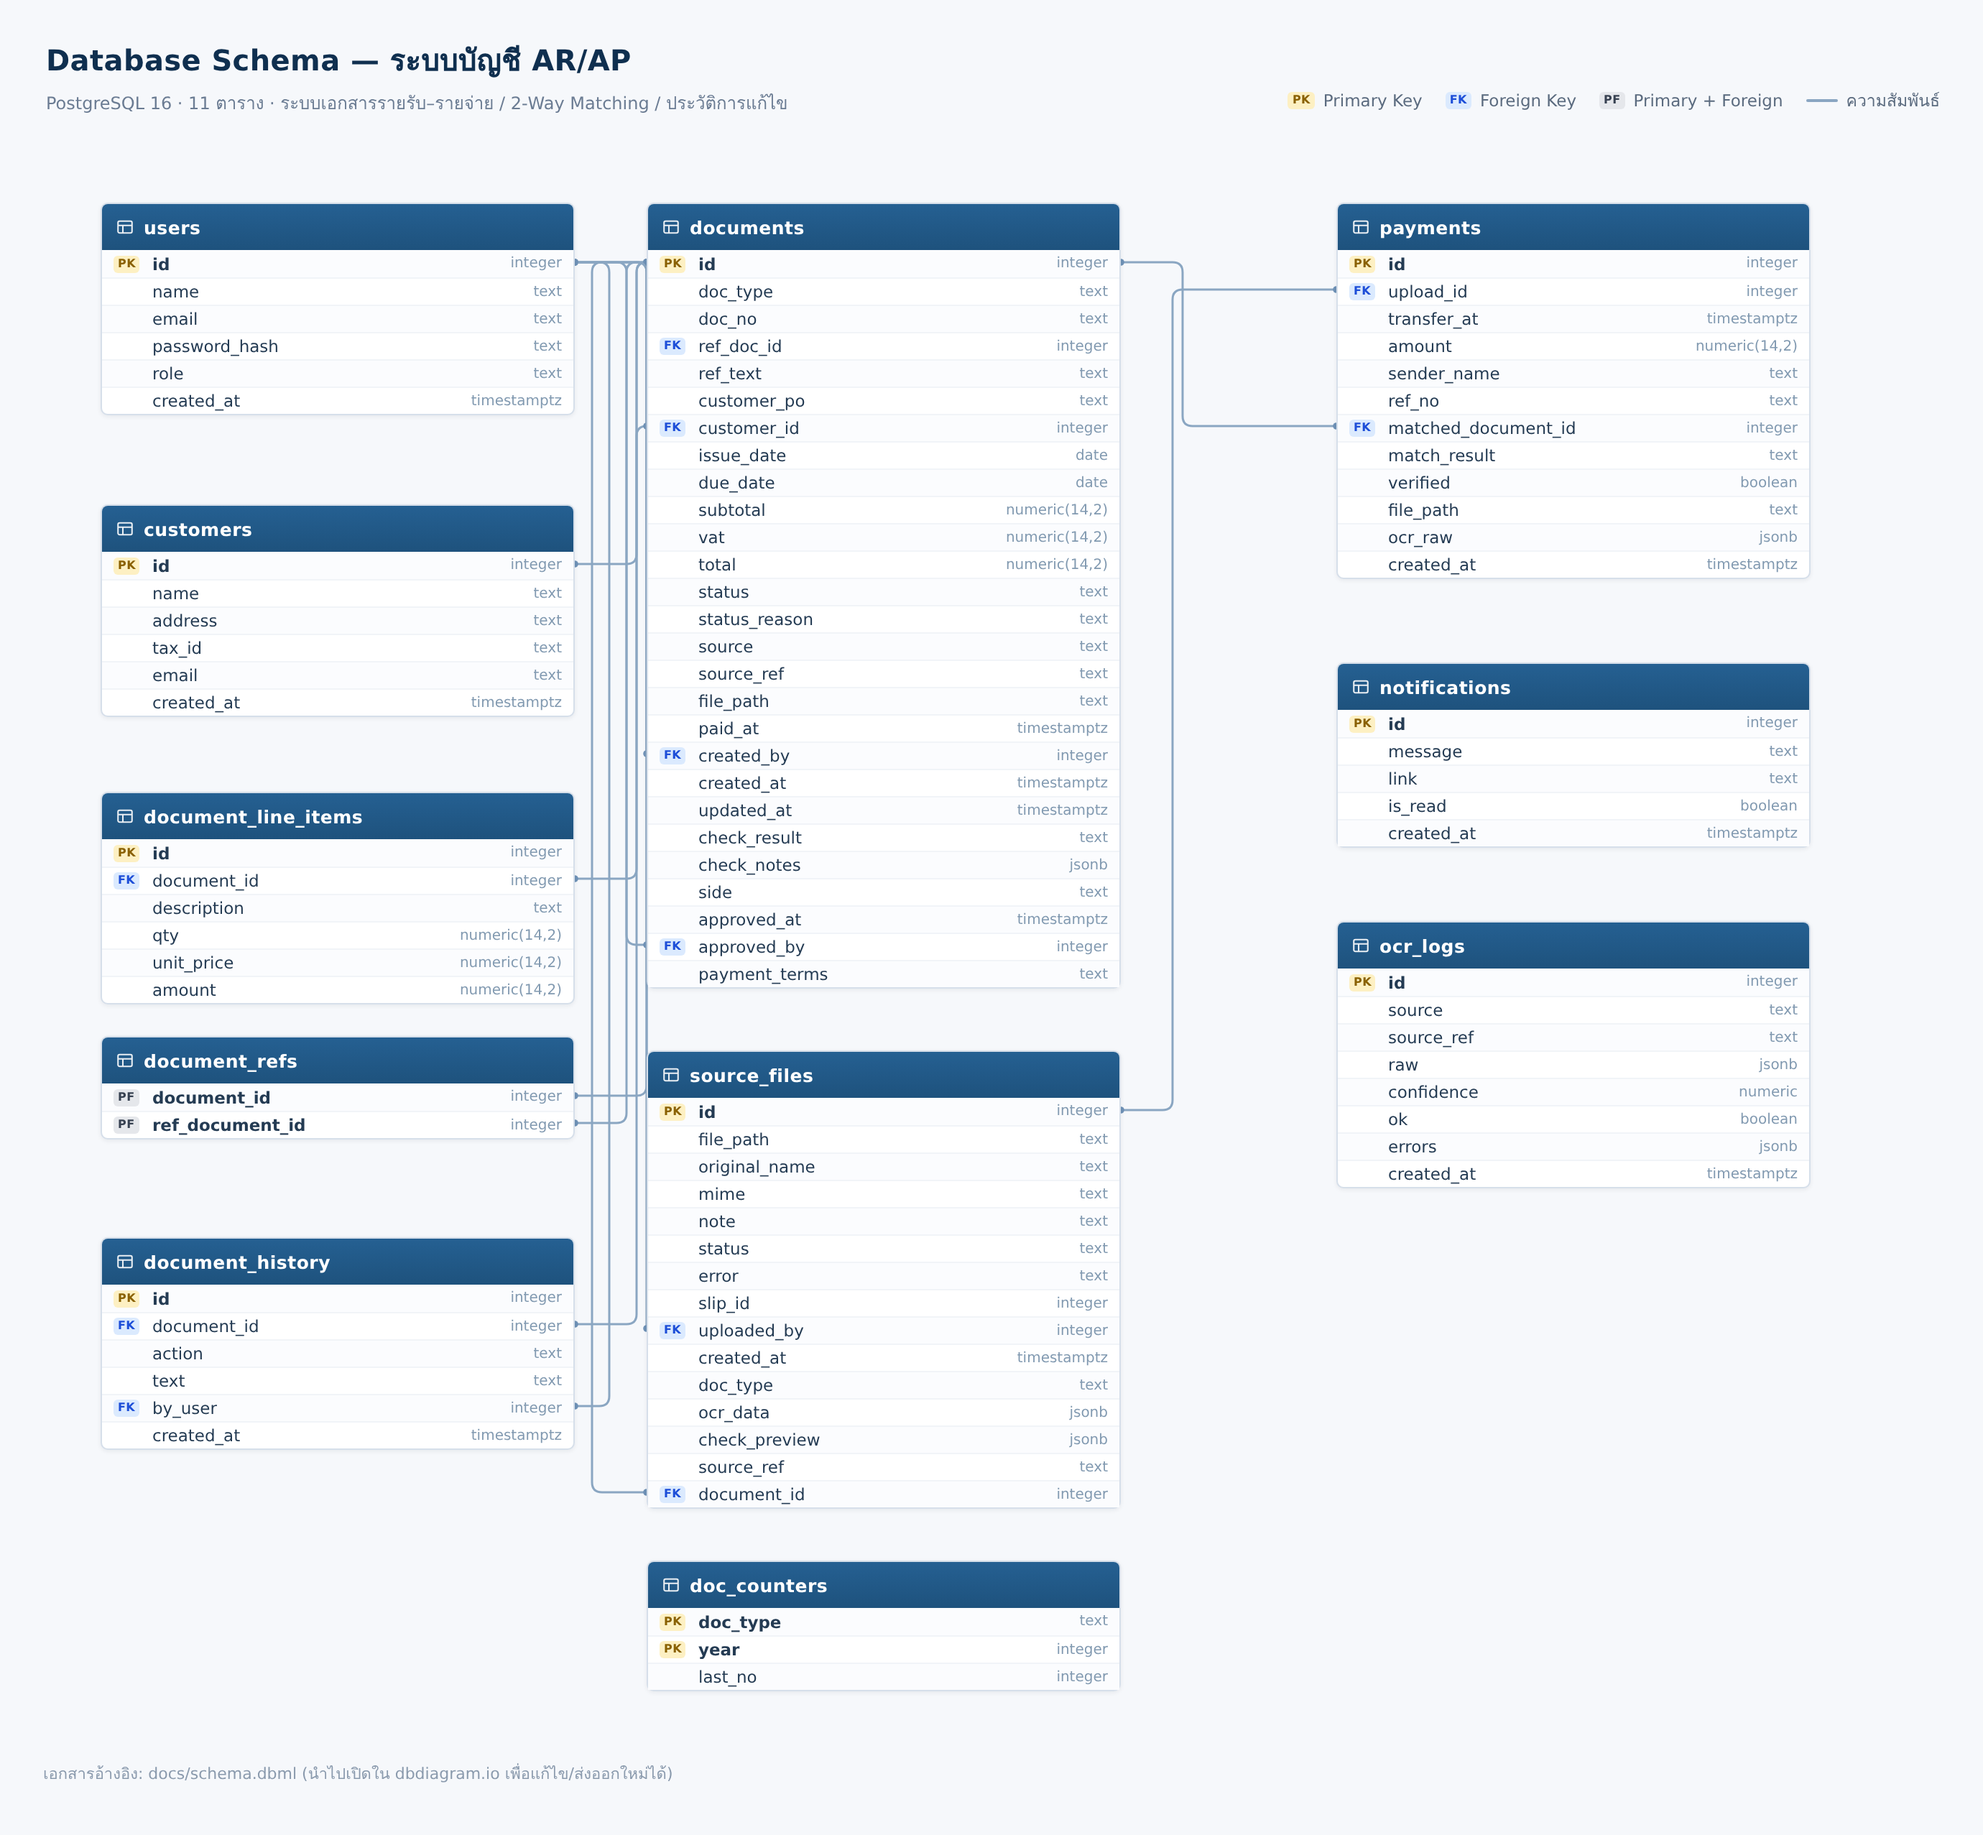
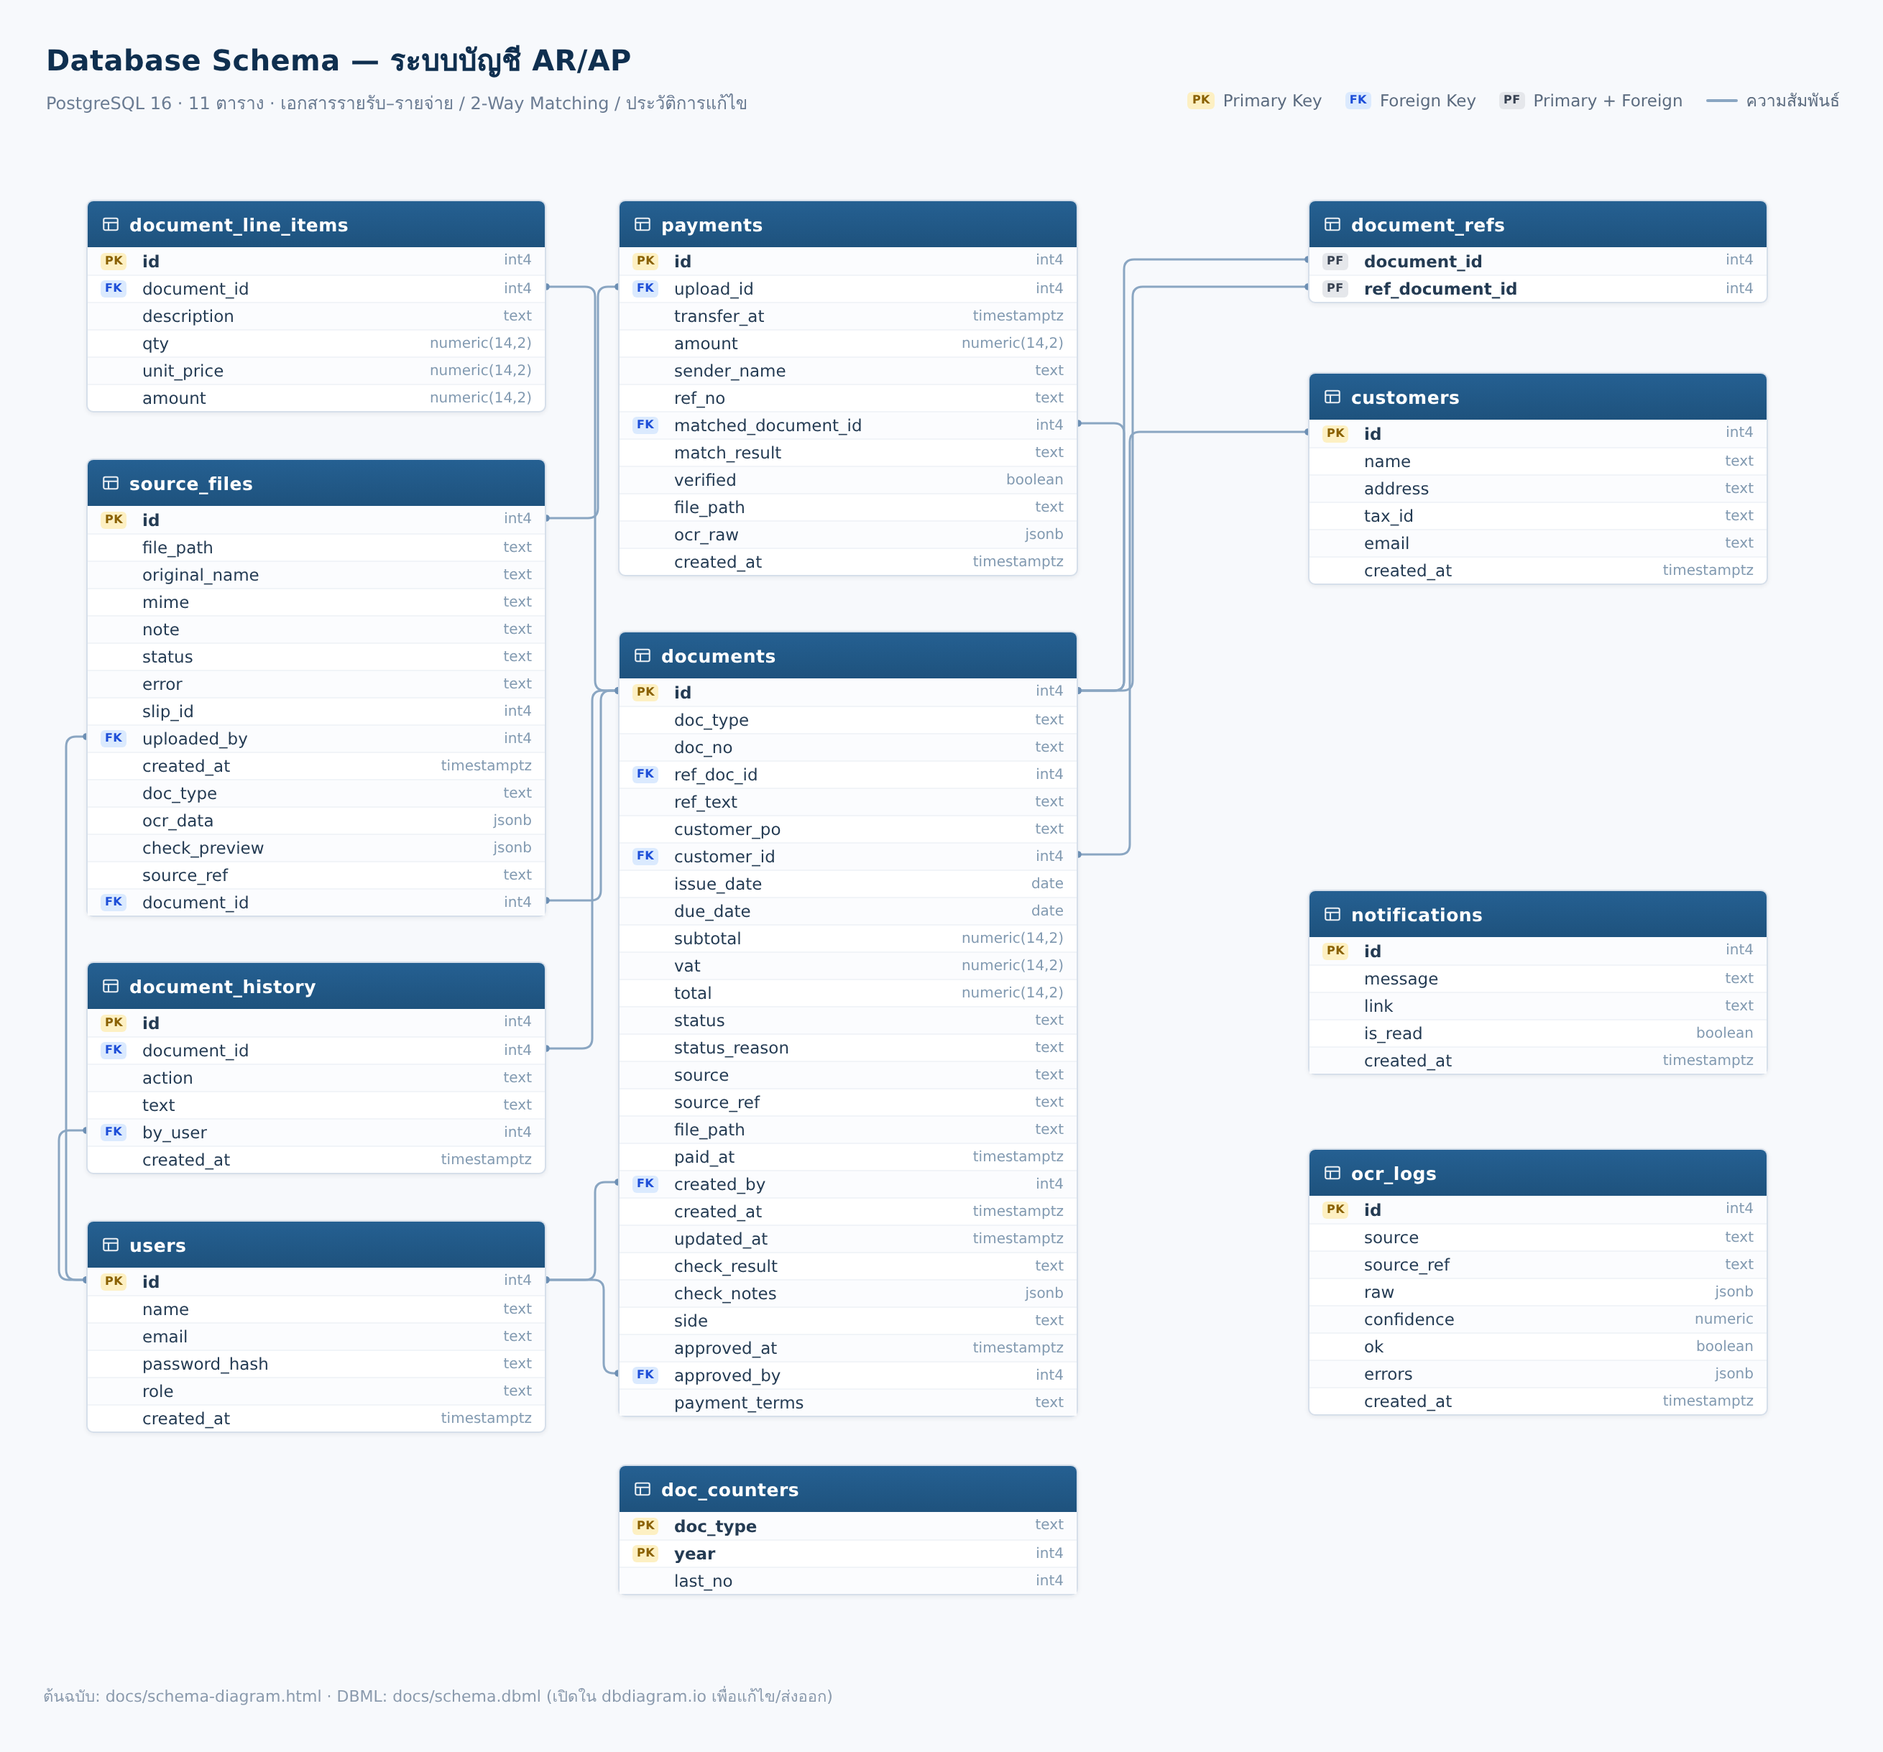
docs: redesign schema diagram layout
- Re-layout tables to follow the reference diagram (line items/source files/history/users left, payments/documents center, refs/customers right)
- Show PostgreSQL type names (int4, timestamptz, numeric(14,2), jsonb)
- Keep renamed tables and relationship lines in sync with the live DB

diff --git a/docs/schema-diagram.html b/docs/schema-diagram.html
@@ -5,25 +5,24 @@
 <title>Database Schema — AR/AP System</title>
 <style>
   * { box-sizing: border-box; }
-  html, body { margin: 0; padding: 0; background: #f6f8fb; }
+  html, body { margin: 0; padding: 0; background: #f7f9fc; }
   body {
     font-family: "Inter", "Segoe UI", "Noto Sans Thai", "Leelawadee UI", sans-serif;
     color: #1f2937;
-    padding: 26px 30px 34px;
+    padding: 26px 30px 30px;
   }
-  .page-head { display: flex; align-items: flex-end; justify-content: space-between; gap: 24px; margin: 0 0 20px 2px; }
+  .page-head { display: flex; align-items: flex-end; justify-content: space-between; gap: 24px; margin: 0 0 18px 2px; }
   .page-head h1 { margin: 0 0 4px; font-size: 20px; font-weight: 700; color: #0f2f4f; letter-spacing: .2px; }
   .page-head .sub { font-size: 12px; color: #6b7c93; }
   .legend { display: flex; align-items: center; gap: 16px; font-size: 11.5px; color: #5b6b7f; padding-bottom: 2px; }
   .legend span { display: inline-flex; align-items: center; gap: 6px; }
   .legend i { display: inline-block; width: 22px; height: 2px; background: #8aa6c2; border-radius: 2px; }
-  .legend b { font-weight: 600; }
 
-  #canvas { position: relative; width: 1290px; height: 1110px; }
-  #wires { position: absolute; inset: 0; width: 1290px; height: 1110px; overflow: visible; }
+  #canvas { position: relative; width: 1240px; height: 1060px; }
+  #wires { position: absolute; inset: 0; width: 1240px; height: 1060px; overflow: visible; }
 
   .tbl {
-    position: absolute; width: 330px; background: #fff;
+    position: absolute; width: 320px; background: #fff;
     border: 1px solid #d6dfea; border-radius: 5px;
     box-shadow: 0 1px 3px rgba(16, 24, 40, .07);
   }
@@ -36,29 +35,29 @@
   }
   .tbl h3 svg { flex: 0 0 auto; opacity: .9; }
   .row {
-    display: grid; grid-template-columns: 24px 1fr auto; align-items: center; gap: 3px;
-    height: 19px; padding: 0 8px; font-size: 11.5px;
+    display: grid; grid-template-columns: 26px 1fr auto; align-items: center; gap: 3px;
+    height: 19px; padding: 0 9px; font-size: 11.5px;
     border-top: 1px solid #f1f4f8;
   }
   .row:nth-child(2) { border-top: none; }
   .row:nth-child(even) { background: #fbfcfe; }
   .k { justify-self: start; font-size: 8px; font-weight: 700; line-height: 1; padding: 2px 3px; border-radius: 3px; letter-spacing: .2px; }
-  .k.empty { padding: 0; }
   .k.PK { background: #fdf0c3; color: #8a6100; }
   .k.FK { background: #dbeafe; color: #1d4ed8; }
   .k.PFK { background: #e5e7eb; color: #374151; }
+  .k.empty { padding: 0; }
   .nm { color: #243b53; white-space: nowrap; overflow: hidden; text-overflow: ellipsis; }
   .nm.pk { font-weight: 600; }
   .ty { color: #829ab1; font-size: 10px; white-space: nowrap; }
 
-  .foot { margin-top: 14px; font-size: 11px; color: #8a9aad; }
+  .foot { margin-top: 12px; font-size: 11px; color: #8a9aad; }
 </style>
 </head>
 <body>
   <div class="page-head">
     <div>
       <h1>Database Schema — ระบบบัญชี AR/AP</h1>
-      <div class="sub">PostgreSQL 16 · 11 ตาราง · ระบบเอกสารรายรับ–รายจ่าย / 2-Way Matching / ประวัติการแก้ไข</div>
+      <div class="sub">PostgreSQL 16 · 11 ตาราง · เอกสารรายรับ–รายจ่าย / 2-Way Matching / ประวัติการแก้ไข</div>
     </div>
     <div class="legend">
       <span><b class="k PK">PK</b> Primary Key</span>
@@ -69,92 +68,93 @@
   </div>
 
   <div id="canvas"></div>
-  <div class="foot">เอกสารอ้างอิง: docs/schema.dbml (นำไปเปิดใน dbdiagram.io เพื่อแก้ไข/ส่งออกใหม่ได้)</div>
+  <div class="foot">ต้นฉบับ: docs/schema-diagram.html · DBML: docs/schema.dbml (เปิดใน dbdiagram.io เพื่อแก้ไข/ส่งออก)</div>
 
 <script>
-const ROW_H = 19, HEAD_H = 32, W = 330;
+const ROW_H = 19, HEAD_H = 32, W = 320;
 
+// ชนิดข้อมูลแสดงแบบ PostgreSQL (int4/text/timestamptz/numeric/jsonb) เหมือนภาพอ้างอิง
 const S = {
-  users: {
-    x: 40, y: 40, cols: [
-      ['id', 'integer', 'PK'], ['name', 'text'], ['email', 'text'],
-      ['password_hash', 'text'], ['role', 'text'], ['created_at', 'timestamptz'],
+  document_line_items: {
+    x: 30, y: 40, cols: [
+      ['id', 'int4', 'PK'], ['document_id', 'int4', 'FK'], ['description', 'text'],
+      ['qty', 'numeric(14,2)'], ['unit_price', 'numeric(14,2)'], ['amount', 'numeric(14,2)'],
+    ],
+  },
+  payments: {
+    x: 400, y: 40, cols: [
+      ['id', 'int4', 'PK'], ['upload_id', 'int4', 'FK'], ['transfer_at', 'timestamptz'],
+      ['amount', 'numeric(14,2)'], ['sender_name', 'text'], ['ref_no', 'text'],
+      ['matched_document_id', 'int4', 'FK'], ['match_result', 'text'], ['verified', 'boolean'],
+      ['file_path', 'text'], ['ocr_raw', 'jsonb'], ['created_at', 'timestamptz'],
+    ],
+  },
+  document_refs: {
+    x: 880, y: 40, cols: [
+      ['document_id', 'int4', 'PFK'], ['ref_document_id', 'int4', 'PFK'],
+    ],
+  },
+  source_files: {
+    x: 30, y: 220, cols: [
+      ['id', 'int4', 'PK'], ['file_path', 'text'], ['original_name', 'text'],
+      ['mime', 'text'], ['note', 'text'], ['status', 'text'],
+      ['error', 'text'], ['slip_id', 'int4'], ['uploaded_by', 'int4', 'FK'],
+      ['created_at', 'timestamptz'], ['doc_type', 'text'], ['ocr_data', 'jsonb'],
+      ['check_preview', 'jsonb'], ['source_ref', 'text'], ['document_id', 'int4', 'FK'],
     ],
   },
   customers: {
-    x: 40, y: 250, cols: [
-      ['id', 'integer', 'PK'], ['name', 'text'], ['address', 'text'],
+    x: 880, y: 160, cols: [
+      ['id', 'int4', 'PK'], ['name', 'text'], ['address', 'text'],
       ['tax_id', 'text'], ['email', 'text'], ['created_at', 'timestamptz'],
     ],
   },
   documents: {
-    x: 420, y: 40, cols: [
-      ['id', 'integer', 'PK'], ['doc_type', 'text'], ['doc_no', 'text'],
-      ['ref_doc_id', 'integer', 'FK'], ['ref_text', 'text'], ['customer_po', 'text'],
-      ['customer_id', 'integer', 'FK'], ['issue_date', 'date'], ['due_date', 'date'],
+    x: 400, y: 340, cols: [
+      ['id', 'int4', 'PK'], ['doc_type', 'text'], ['doc_no', 'text'],
+      ['ref_doc_id', 'int4', 'FK'], ['ref_text', 'text'], ['customer_po', 'text'],
+      ['customer_id', 'int4', 'FK'], ['issue_date', 'date'], ['due_date', 'date'],
       ['subtotal', 'numeric(14,2)'], ['vat', 'numeric(14,2)'], ['total', 'numeric(14,2)'],
       ['status', 'text'], ['status_reason', 'text'], ['source', 'text'],
       ['source_ref', 'text'], ['file_path', 'text'], ['paid_at', 'timestamptz'],
-      ['created_by', 'integer', 'FK'], ['created_at', 'timestamptz'], ['updated_at', 'timestamptz'],
+      ['created_by', 'int4', 'FK'], ['created_at', 'timestamptz'], ['updated_at', 'timestamptz'],
       ['check_result', 'text'], ['check_notes', 'jsonb'], ['side', 'text'],
-      ['approved_at', 'timestamptz'], ['approved_by', 'integer', 'FK'], ['payment_terms', 'text'],
-    ],
-  },
-  document_line_items: {
-    x: 40, y: 450, cols: [
-      ['id', 'integer', 'PK'], ['document_id', 'integer', 'FK'], ['description', 'text'],
-      ['qty', 'numeric(14,2)'], ['unit_price', 'numeric(14,2)'], ['amount', 'numeric(14,2)'],
-    ],
-  },
-  document_refs: {
-    x: 40, y: 620, cols: [
-      ['document_id', 'integer', 'PFK'], ['ref_document_id', 'integer', 'PFK'],
+      ['approved_at', 'timestamptz'], ['approved_by', 'int4', 'FK'], ['payment_terms', 'text'],
     ],
   },
   document_history: {
-    x: 40, y: 760, cols: [
-      ['id', 'integer', 'PK'], ['document_id', 'integer', 'FK'], ['action', 'text'],
-      ['text', 'text'], ['by_user', 'integer', 'FK'], ['created_at', 'timestamptz'],
-    ],
-  },
-  source_files: {
-    x: 420, y: 630, cols: [
-      ['id', 'integer', 'PK'], ['file_path', 'text'], ['original_name', 'text'],
-      ['mime', 'text'], ['note', 'text'], ['status', 'text'],
-      ['error', 'text'], ['slip_id', 'integer'], ['uploaded_by', 'integer', 'FK'],
-      ['created_at', 'timestamptz'], ['doc_type', 'text'], ['ocr_data', 'jsonb'],
-      ['check_preview', 'jsonb'], ['source_ref', 'text'], ['document_id', 'integer', 'FK'],
-    ],
-  },
-  doc_counters: {
-    x: 420, y: 985, cols: [
-      ['doc_type', 'text', 'PK'], ['year', 'integer', 'PK'], ['last_no', 'integer'],
-    ],
-  },
-  payments: {
-    x: 900, y: 40, cols: [
-      ['id', 'integer', 'PK'], ['upload_id', 'integer', 'FK'], ['transfer_at', 'timestamptz'],
-      ['amount', 'numeric(14,2)'], ['sender_name', 'text'], ['ref_no', 'text'],
-      ['matched_document_id', 'integer', 'FK'], ['match_result', 'text'], ['verified', 'boolean'],
-      ['file_path', 'text'], ['ocr_raw', 'jsonb'], ['created_at', 'timestamptz'],
+    x: 30, y: 570, cols: [
+      ['id', 'int4', 'PK'], ['document_id', 'int4', 'FK'], ['action', 'text'],
+      ['text', 'text'], ['by_user', 'int4', 'FK'], ['created_at', 'timestamptz'],
     ],
   },
   notifications: {
-    x: 900, y: 360, cols: [
-      ['id', 'integer', 'PK'], ['message', 'text'], ['link', 'text'],
+    x: 880, y: 520, cols: [
+      ['id', 'int4', 'PK'], ['message', 'text'], ['link', 'text'],
       ['is_read', 'boolean'], ['created_at', 'timestamptz'],
     ],
   },
   ocr_logs: {
-    x: 900, y: 540, cols: [
-      ['id', 'integer', 'PK'], ['source', 'text'], ['source_ref', 'text'],
+    x: 880, y: 700, cols: [
+      ['id', 'int4', 'PK'], ['source', 'text'], ['source_ref', 'text'],
       ['raw', 'jsonb'], ['confidence', 'numeric'], ['ok', 'boolean'],
       ['errors', 'jsonb'], ['created_at', 'timestamptz'],
     ],
   },
+  users: {
+    x: 30, y: 750, cols: [
+      ['id', 'int4', 'PK'], ['name', 'text'], ['email', 'text'],
+      ['password_hash', 'text'], ['role', 'text'], ['created_at', 'timestamptz'],
+    ],
+  },
+  doc_counters: {
+    x: 400, y: 920, cols: [
+      ['doc_type', 'text', 'PK'], ['year', 'int4', 'PK'], ['last_no', 'int4'],
+    ],
+  },
 };
 
-// [ตารางต้นทาง, คอลัมน์, ตารางปลายทาง, คอลัมน์, ชนิดเส้น]
+// [ตารางต้นทาง, คอลัมน์, ตารางปลายทาง, คอลัมน์]
 const RELS = [
   ['documents', 'customer_id', 'customers', 'id'],
   ['documents', 'created_by', 'users', 'id'],
@@ -174,8 +174,8 @@ const canvas = document.getElementById('canvas');
 const SVGNS = 'http://www.w3.org/2000/svg';
 const svg = document.createElementNS(SVGNS, 'svg');
 svg.setAttribute('id', 'wires');
-svg.setAttribute('width', 1290);
-svg.setAttribute('height', 1110);
+svg.setAttribute('width', 1240);
+svg.setAttribute('height', 1060);
 canvas.appendChild(svg);
 
 const tableIcon = '<svg width="12" height="12" viewBox="0 0 16 16" fill="none" stroke="currentColor" stroke-width="1.4">' +
@@ -240,48 +240,42 @@ function wire(pts) {
   }
 }
 
-let leftOffset = 0;
+let midOffset = 0;
 let rightOffset = 0;
+let leftOffset = 0;
 
 for (const [sName, sCol, dName, dCol] of RELS) {
   const s = S[sName], d = S[dName];
   const sy = rowY(sName, sCol), dy = rowY(dName, dCol);
 
-  // self reference (documents.ref_doc_id -> documents.id)
+  // อ้างอิงตัวเอง: documents.ref_doc_id -> documents.id
   if (sName === dName) {
-    wire([[s.x + W, sy], [s.x + W + 56, sy], [s.x + W + 56, dy], [s.x + W, dy]]);
+    wire([[s.x + W, sy], [s.x + W + 52, sy], [s.x + W + 52, dy], [s.x + W, dy]]);
     continue;
   }
 
   const dIsRight = d.x > s.x + W;
   const sIsRight = s.x > d.x + W;
-  let sx, dx, base;
 
-  if (dIsRight) {                       // center -> right column
-    sx = s.x + W; dx = d.x;
-    base = s.x + W + 36;
-    rightOffset += 7;
-    base += rightOffset % 21;
-  } else if (sIsRight) {                // right column -> center
-    sx = s.x; dx = d.x + W;
-    base = d.x + W + 36;
-    rightOffset += 7;
-    base += rightOffset % 21;
-  } else if (s.x === d.x) {             // same column (users/history หรือ documents/source_files)
-    if (s.x < 200) {
-      sx = s.x + W; dx = d.x + W;
-      base = s.x + W + 18; leftOffset += 6; base += leftOffset % 18;
-    } else {
-      sx = s.x; dx = d.x;
-      base = s.x - 26; leftOffset += 6; base -= leftOffset % 18;
-    }
-  } else {                              // center -> left column
-    sx = s.x; dx = d.x + W;
-    base = d.x + W + 26;
-    leftOffset += 6;
-    base += leftOffset % 18;
+  if (s.x === d.x && s.x < 200) {
+    // คอลัมน์ซ้าย: วกอ้อมขอบซ้ายของ canvas
+    leftOffset += 5;
+    const base = s.x - 14 - (leftOffset % 10);
+    wire([[s.x, sy], [base, sy], [base, dy], [d.x, dy]]);
+  } else if (s.x === d.x) {
+    // คอลัมน์กลาง: วกอ้อมด้านขวา
+    rightOffset += 6;
+    const base = s.x + W + 26 + (rightOffset % 12);
+    wire([[s.x + W, sy], [base, sy], [base, dy], [s.x + W, dy]]);
+  } else if (dIsRight) {
+    midOffset += 6;
+    const base = s.x + W + 30 + (midOffset % 20);
+    wire([[s.x + W, sy], [base, sy], [base, dy], [d.x, dy]]);
+  } else {
+    midOffset += 6;
+    const base = d.x + W + 22 + (midOffset % 20);
+    wire([[s.x, sy], [base, sy], [base, dy], [d.x + W, dy]]);
   }
-  wire([[sx, sy], [base, sy], [base, dy], [dx, dy]]);
 }
 </script>
 </body>
